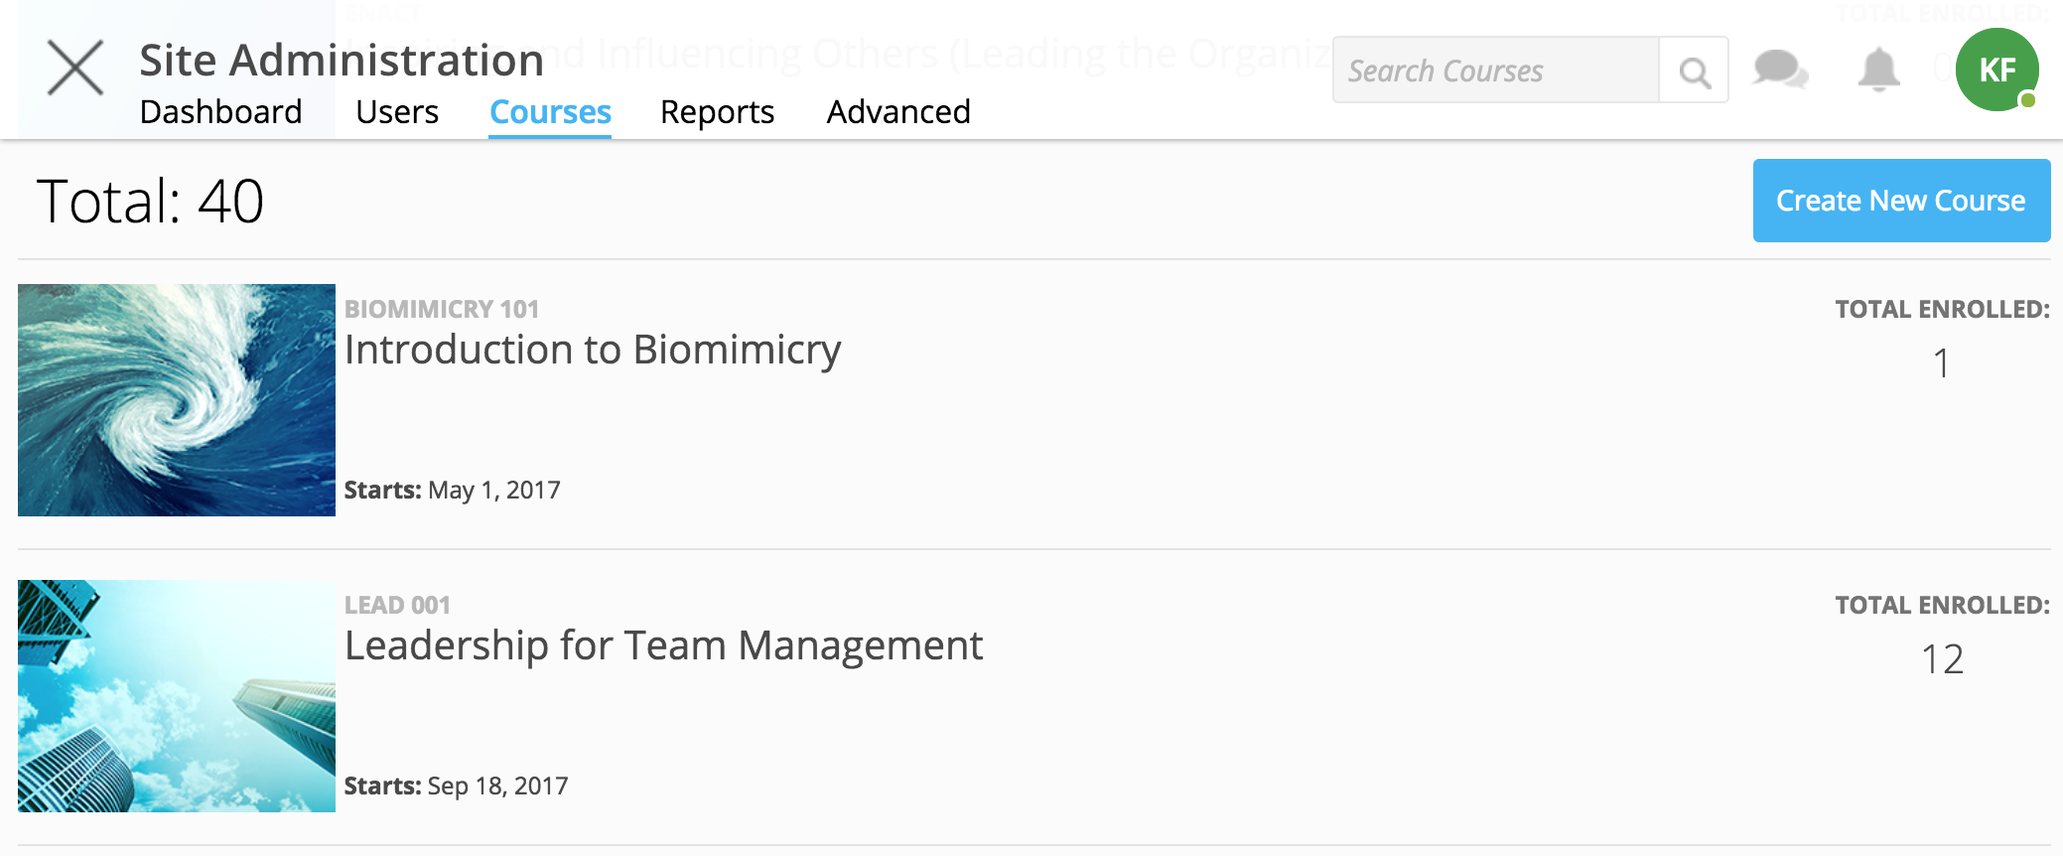
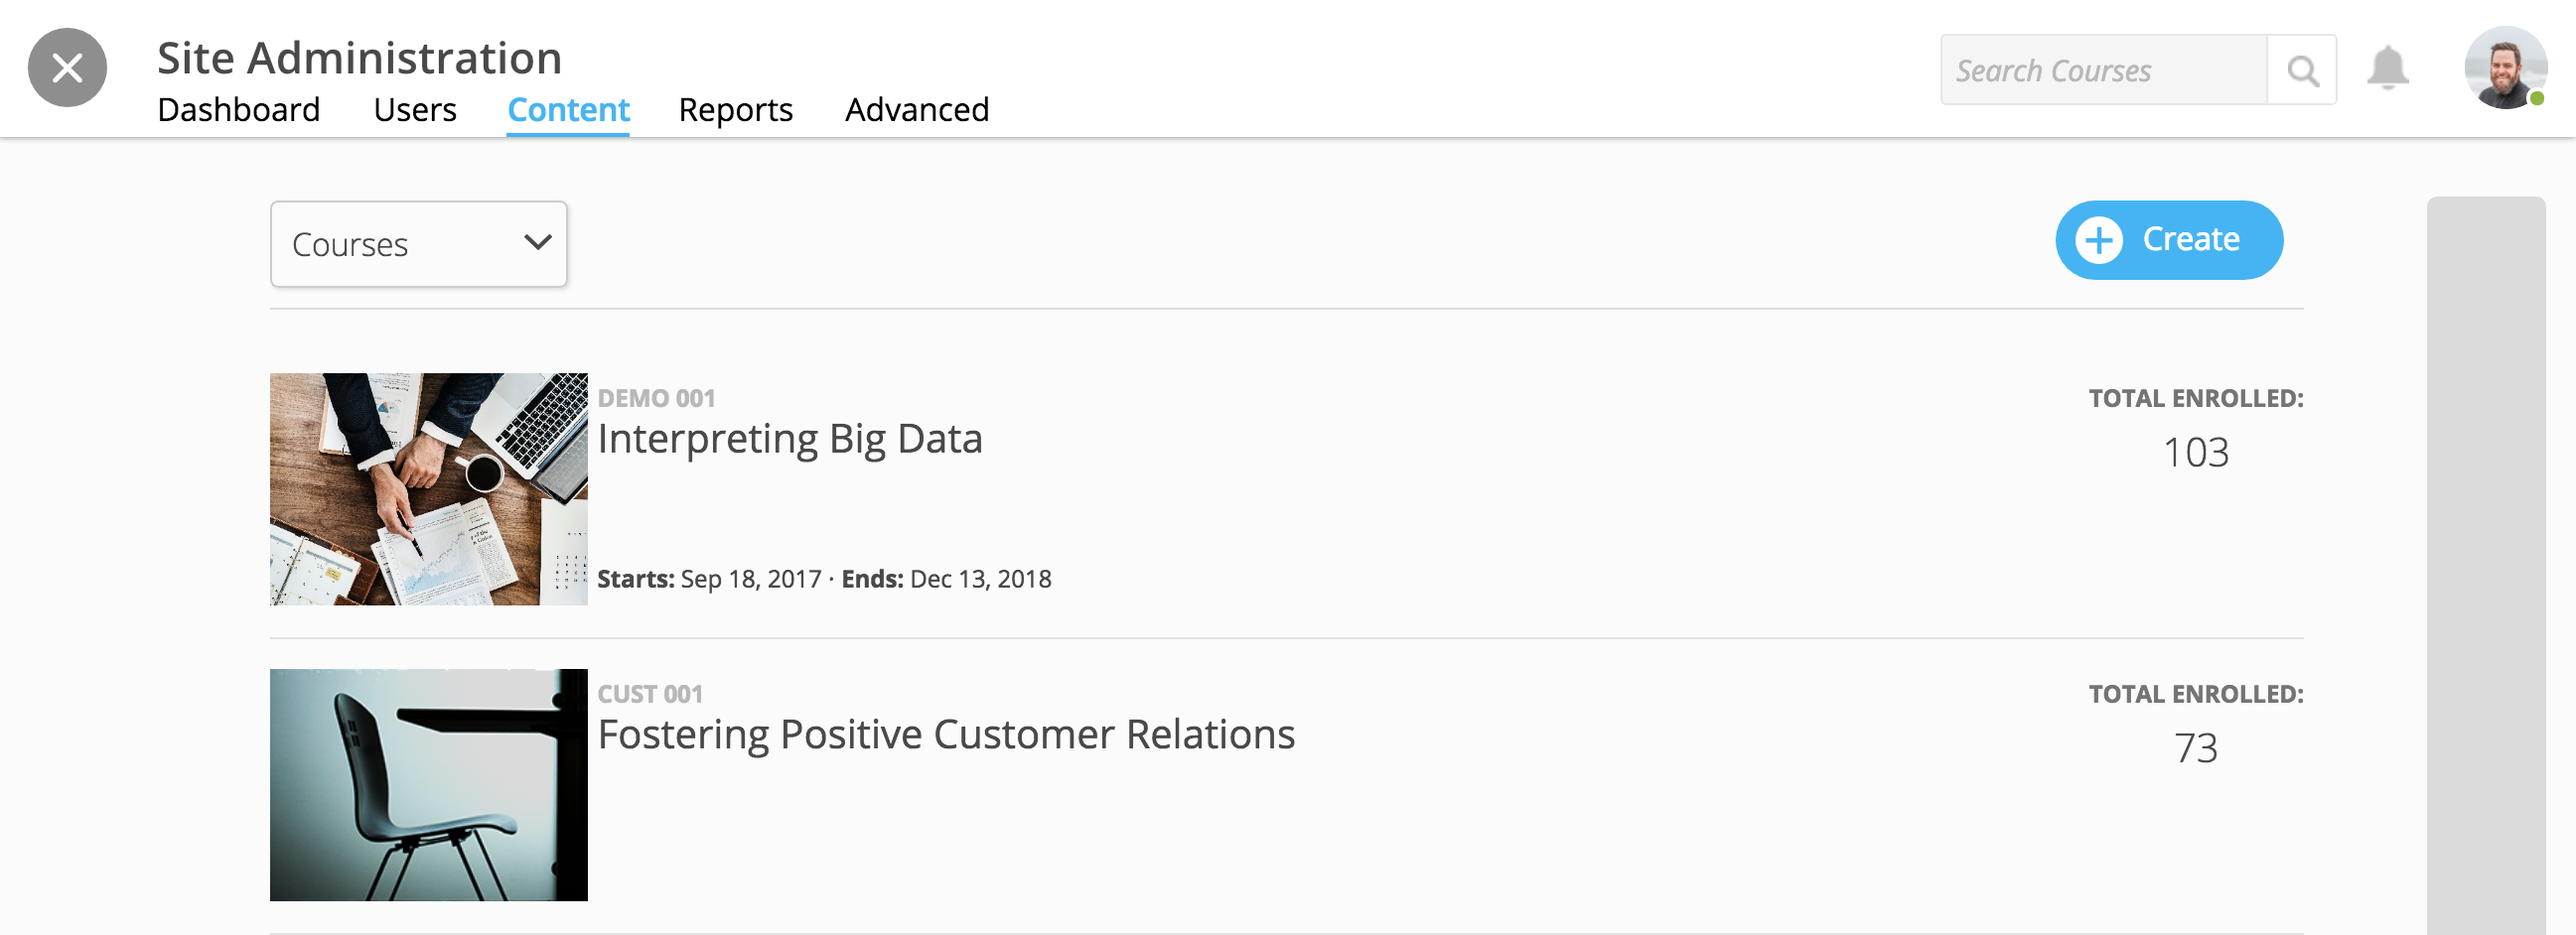
a LOT of updates to admin guide

diff --git a/adminguide/createcourse.rst b/adminguide/createcourse.rst
@@ -1,13 +1,13 @@
-=================
-Create a Course
-=================
+==========================
+Course Creation and Setup
+==========================
 
 This guide will walk you through creating a new course "shell," as well as Course Setup. 
 
-.. note:: Please be aware that although creating a new course is reserved only as a Site Admin feature, course setup can also be completed by editors of the course.
+.. note:: Please be aware that although creating a new course is reserved only as a Site Admin feature, course setup can be completed by editors and instructors of the course.
 
 Create Course Shell
---------------------
+====================
 
 **To create a new course:**
 
@@ -25,12 +25,26 @@ Create Course Shell
 
 .. image:: images/coursecreationid.png
 
-.. note:: You can come back to edit these fields at any time.
+You can come back to edit these fields at any time.
   
-You will now continue to the Course Info page.
+.. note:: You will now continue to the Course Info page. 
+
+Edit Course Information
+========================
+
+Opening a course allows you to edit all course information, add course tags, and manage facilitators.
+
+To open a course,
+
+1. Navigate to your homepage.
+2. Find the course under "Administered Courses." If you have many courses, you may need to click "See All" to view others.
+3. Click on the course.
+4. Click on the "Course Info" tab.
+
+.. image:: images/courseedit.png
 
 Course Info Page
-----------------
+=================
 
 Your **Course Info** page includes:
 
@@ -54,7 +68,7 @@ This view also allows you to manage course visibility and allows access to your 
 .. note:: Site admin, instructors, and editors can all edit the Course Info page.
 
 Course Visibility
---------------------
+===================
 
 Control course visibility.
 
@@ -92,7 +106,8 @@ The "Preview Mode" defines when the course becomes available for learners to beg
 
 
 Basic Course Information
---------------------------
+=========================
+
 Basic course information includes the course ID, title, description, and tags. This information will display to learners.
 
 .. image:: images/basicinfo.png
@@ -117,7 +132,7 @@ Tag courses with one or multiple tags (e.g., “Marketing”). These tags will c
 
 
 Course Assets
---------------
+===============
 
 Upload an image to represent your course. This image will display in the course catalog, and will be in the background of your course. 
 
@@ -144,14 +159,14 @@ Upload an image to represent your course. This image will display in the course 
 7. Click "Done."
 
 Course Credit
---------------
+==============
 
 Allow learners to earn credit when they complete the course.
 
 To assign a credit type to a course,
 
 1. Click “Edit" next to "Credits."
-2. Use the dropdown to select an existing credit type and unit, or "Add Credit."
+2. Use the dropdown to select an existing credit type and unit, or "Add Credit." (If you do not see the credit type you want, please return to your Admin Tools to create a site credit type. See "Manage Site Credit" section within the Admin Guide to learn more.)
 3. Define the amount of credit.
 4. Click "Save."
 
@@ -167,7 +182,7 @@ Credit will be awarded when the user has completed the course as defined by comp
 .. note:: You can opt to award certificates (as well as credit) for course completion. If you allow certificates, the learner can “View Certificate” to view their completion certificate and credit. They can also view their certificates within their profile. Please see **Completion and Certificates** below.
 
 Redemption and Invitation Codes
--------------------------------
+================================
 
 Invite learners to enroll in your course through a redemption code. Redemption codes allow learners to enroll in private courses in the course catalog's Redeem tab.
 
@@ -200,7 +215,7 @@ Codes can also be deleted by clicking on the trashcan icon next to the code in e
 Along with your personal message, the platform will send a personalized course code (a separate code to each email) and a link to the course. When the user creates an account, they must sign up with the email you sent the invitation to in order to redeem access. 
 
 Start and End Date
---------------------
+===================
 
 Define when your course begins and ends. 
 
@@ -216,7 +231,7 @@ Define when your course begins and ends.
 .. note:: Setting an End Date will not revoke access to the course. The course is available indefinitely as long as a learner is enrolled. If you would like to revoke access to a course, please contact NextThought.
 
 Meet Times
-----------
+===========
 
 Use this space to suggest times the course will meet, either online or in person. This field will not change course availability, but is an optional tool to encourage course engagement. 
 
@@ -228,7 +243,7 @@ Use this space to suggest times the course will meet, either online or in person
 .. image:: images/meettimes.png
 
 Manage Facilitators
--------------------------------
+====================
 
 Manage your course facilitators, including Instructors, Editors, and Assistants.
 
@@ -253,6 +268,8 @@ Manage your course facilitators, including Instructors, Editors, and Assistants.
    
 4. Click "Save" within the course facilitator section to save your changes.
 
+.. warning:: Please note, if you are currently a site admin, but would also like to facilitate the course, please make sure you assign yourself the Instructor role as well.
+
 The current roles are as follows:
 
 - **Course Facilitator:** The term for course roles: instructor, assistant, and editor
@@ -264,7 +281,7 @@ The current roles are as follows:
 - **Course Editor:** Editing only (no instructor capabilities)
    
 [Advanced] Completion and Certificates
-----------------------------------------
+=======================================
 
 Manage course completion and certificate options with your Admin Tools.
 
@@ -286,3 +303,4 @@ Manage course completion and certificate options with your Admin Tools.
 		  - Require materials, no certificate, award credit
 		  - Require materials, award certificate, award credit
 		  - No required materials (if you do not add required materials, no credit nor certificate can be automatically awarded)
+

diff --git a/adminguide/managecourse.rst b/adminguide/managecourse.rst
@@ -2,7 +2,9 @@
 Manage a Course
 =================
 
-Manage a course from your admin tools. View and search all courses in one place, view enrollments and course activity, course rosters, and reports. You can also edit course information and manage course facilitators.
+Manage a course from your admin tools. View and search all courses in one place, view enrollments and course activity, rosters, and reports. 
+
+.. warning: If you would like to edit course information, facilitators, credit, or more, please see "Course Creation and Setup" here: https://help.nextthought.com/adminguide/createcourse.html
 
 View and Search all Courses
 ============================
@@ -13,103 +15,69 @@ View and search all your courses within your admin tools.
 
 .. image:: images/adminbutton2.png
 
-2. Click on the "Courses" tab.
+2. Click on the "Content" tab.
 
-The **Courses Tab** offers a list of all courses on the site. Click in the "Search Courses" field in the upper right-hand corner to find a course. Begin typing in the title of the course and click enter to search.
+The **Content Tab** offers a list of all courses on the site. Click in the "Search Courses" field in the upper right-hand corner to find a course. Begin typing in the title of the course to see search results. Click on a course to manage.
 
 .. image:: images/admincourses.png
 
-Review Course Activity, Roster, and Reports
+Once you select a course, you can view three tabs:
+
+- Overview
+- Roster
+- Reports
+
+Course Overview
 =============================================
 
-Within the "Courses" tab, select a course in order to view:
+The **Overview tab** is the default view once you select a course in your Admin Tools.
 
-- Total Enrollments
+Widgets include:
+
+- Enrollment
+- Learner Progress
+- Top Learners
 - Daily Activity
 - Active Times
 - Most Popular Time
-- Course Roster
-- Course Reports
 
 .. image:: images/admincourse.png
 
-Edit Course Information
-========================
+Course Roster
+===================
 
-Opening a course allows you to edit all course information, add course tags, and manage facilitators.
+The **Roster tab** allows you to:
 
-To open a course,
+- View a list of enrolled learners
+- View learner progress
+- Access detailed learner reports pertaining to the course
 
-1. Navigate to your homepage.
-2. Find the course under "Administered Courses." If you have many courses, you may need to click "See All" to view others.
-3. Click on the course.
-4. Click on the "Course Info" tab.
+.. image:: images/courserosteradmin.png
 
-.. image:: images/courseedit.png
+Click on a learner within the course to view their
 
-From this tab, you can edit, add, or update:
+- Activity
+- Active Times
+- Progress
+- Reports
 
-- Course Video
-- ID
-- Title
-- Description and Tags
-- Assets
-- Prerequisites
-- Start Date
-- End Date
-- Meet Times
-- Facilitators
+.. image:: images/courselearnerstat.png
 
-You can also review your enrollment code here.
+.. note:: Selecting a learner inside your course roster will only offer information on the learner pertaining to the course. If you want to view learner site activity and progress, you will need to navigate to your Admin Tool's Users tab. See more information here: https://help.nextthought.com/adminguide/managesiteusers.html
 
-To edit a field, click the "Edit" button. Make your changes and be sure to click "Save" to submit your changes.
+Course Reports
+=================
 
-.. note:: Course tags will create categories in the course catalog. These categories help sort and organize courses. See the Release Notes for more information.
+The **Reports tab** allows you to view:
 
+- Course Summary Report
+- Self Assessment Summary Report
+- Course Roster Report
+- Assignment Summary Report
+- Forum Participation Report
+- Top Participation Report
 
-Manage Course Facilitators
-===========================
+.. image:: images/coursereportstab.png
 
-Manage course facilitators from the Course Info tab within a course.
-
-To add, edit, or remove course facilitators, click on the "Edit" button within the "Facilitators" section of the Course Info tab.
-
-Manage Current Facilitators
-----------------------------
-
-Once you select "Edit," course facilitators will display. Manage current facilitators using the role dropdown, or remove them entirely using the "x" button. 
-
-.. image:: images/coursefacil.png
-
-Toggle visibility using the dropdown menu. **Visible** allows their name to be visibly mentioned as a course facilitator when users view the course. **Hidden** facilitators will not be visibly mentioned as a course facilitator when users view the course.
-
-Add a Facilitator
--------------------
-
-To add a course facilitator,
-
-1. Click the "+ Add a Facilitator" button.
-
-2. Begin typing the name of the facilitator in the "Add users" field. Select the user from the search hits. 
-
-.. image:: images/coursefaciledit.png
-
-.. note:: The user must have already created an account on the site. You can only search current members of the site.
-
-3. Assign a role:
-
-- **Instructor:** Editing and Managing. An instructor can create the course outline, create and place content, and manage the course (view student discussions, assignments, and reports). The instructor acts as both **editor** and **assistant** as defined below.
-- **Editor:** Editing only. An editor can create the course outline as well as create and place content. They cannot manage the course or view student activity or work.
-- **Assistant:** Managing only. An assistant can manage the course, but cannot create the course outline or content.
-
-.. note:: These assigned "roles" will not be visible to the user.
-
-4. Choose visibility.
-
-- **Visible:** Allows their name to be visibly mentioned as a course facilitator when users view the course. 
-- **Hidden:** Facilitators will not be visibly mentioned as a course facilitator when users view the course.
-
-5. Click "Add."
-6. Scroll down the list of facilitators and click "Save."
-
+Select a report to view, download, or print.
 
